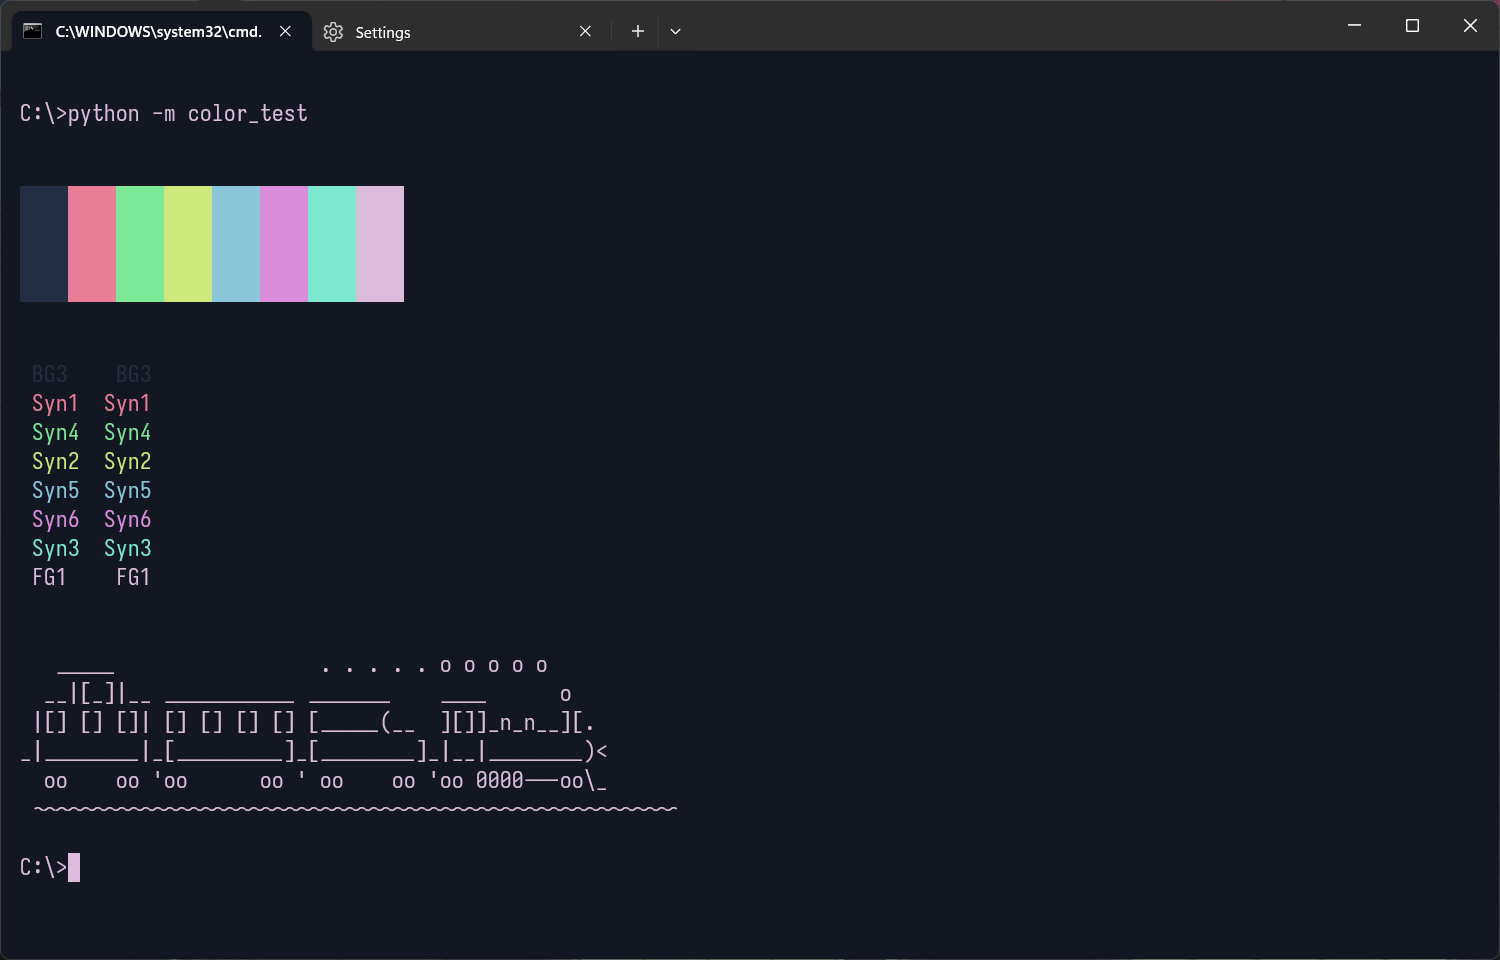
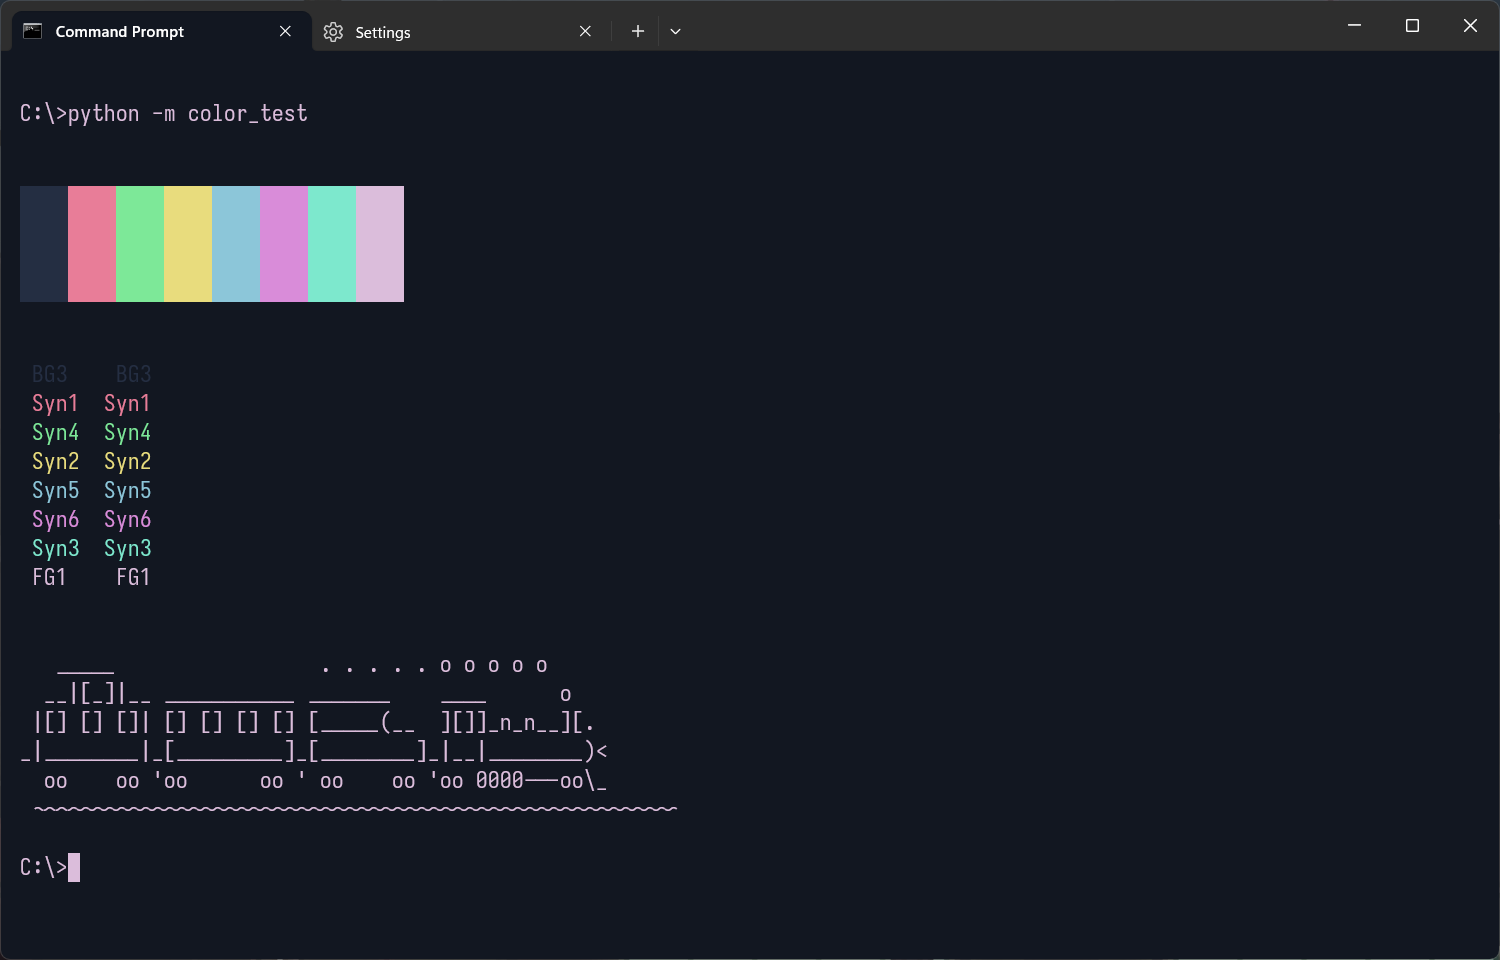
refactoring cyberpunk syntax

Changed region(s): [[0.092, 0.1875, 0.1533, 0.3125], [0.0307, 0.0312, 0.1533, 0.0625]]

diff --git a/scheme_files/other/cyberpunk.html b/scheme_files/other/cyberpunk.html
@@ -89,8 +89,8 @@ this template is meant as a reference sheet for your color theme
 			<tr>
 				<td>syntax 2<br><a>UI: change history revert origin, change history revert modified, warnings
                 <br>SYNTAX: strings, char, regex, verbatim<br>TERMINAL: yellow</a></td>
-				<td>#cde87d</td>
-				<td style="background-color:#cde87d;"></td>
+				<td>#e8dc7d</td>
+				<td style="background-color:#e8dc7d;"></td>
 			</tr>
 			<tr>
 				<td>syntax 3<br><a>SYNTAX: opertors, variables, identifiers<br>TERMINAL: cyan</a></td>
